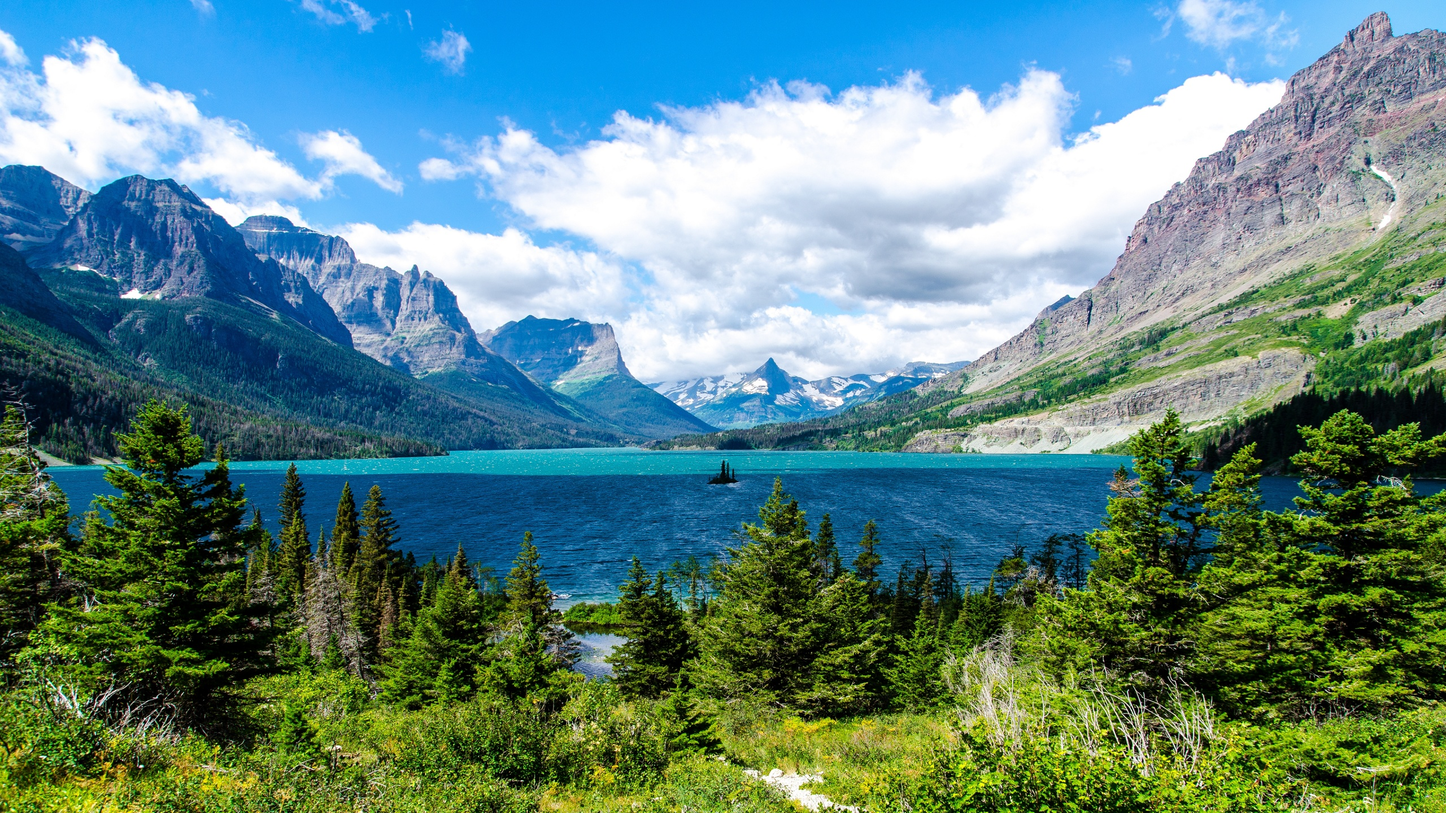
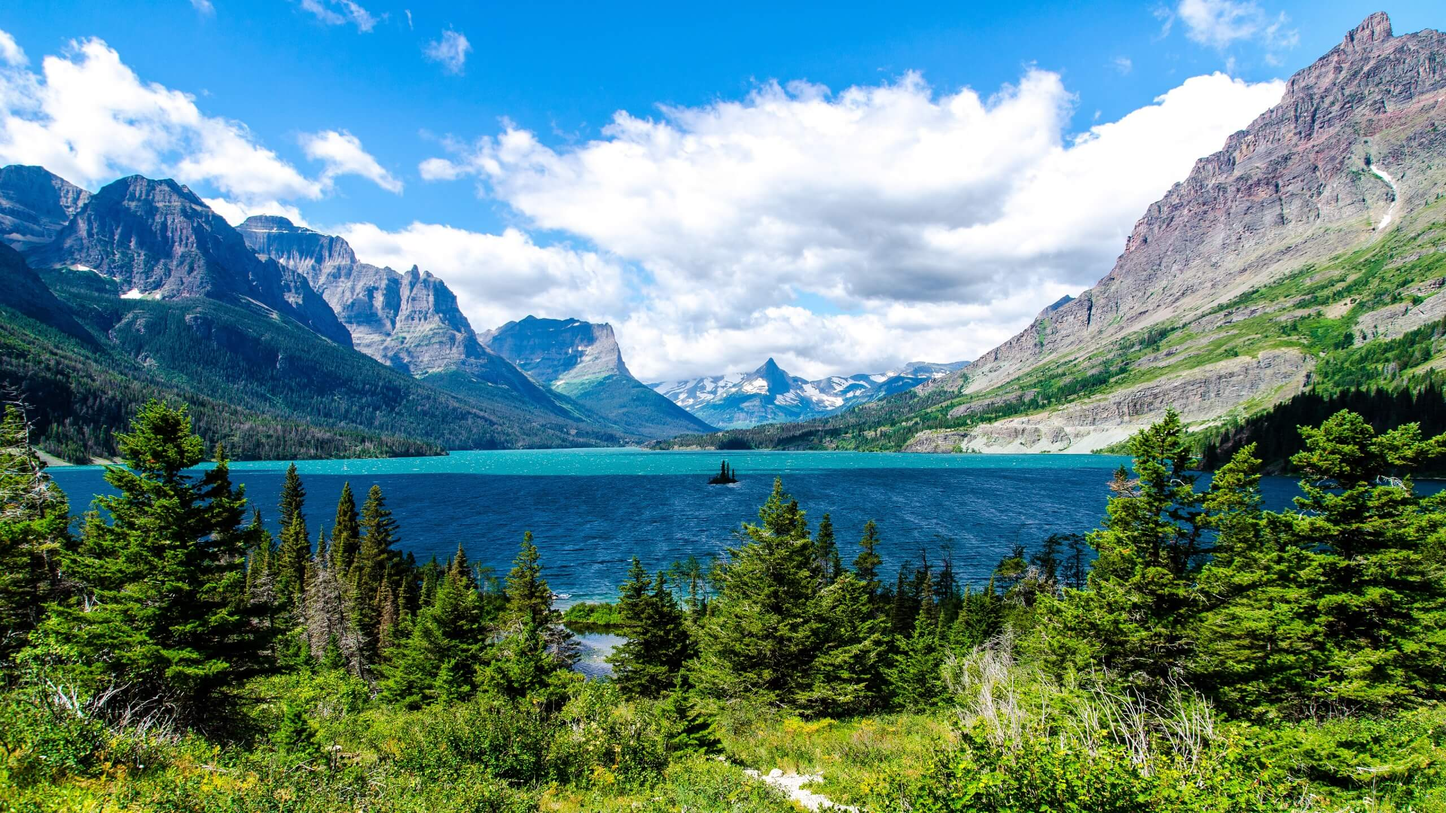
updated the background styles for hero cus its cool

diff --git a/src/app/components/Hero.vue b/src/app/components/Hero.vue
@@ -24,14 +24,14 @@ export default {
     subtitle: String,
     src: String,
     alt: String
+  },
+  computed: {
+    cssProps() {
+      return {'--background-image': (this.src)}
+    }
   }
 }
 </script>
-<style lang="scss">
-  hero {
-    display:block;
-  }
-</style>
 <style lang="scss" scoped>
   .hero {
     position:fixed;
@@ -46,11 +46,13 @@ export default {
     left:0;
     width:100%;
     height:100%;
-    backdrop-filter: sepia(90%) brightness(90%) contrast(110%);
     position: absolute;
     display: flex;
     align-items: center;
     justify-content: center;
+    background-image: linear-gradient(to right, $red, $gold), url('./../../../public/assets/images/glacier-np.png');
+    background-size:cover;
+    background-blend-mode: color;
   }
   .copybox {
     bottom:20%;

diff --git a/src/assets/styles/_colors.scss b/src/assets/styles/_colors.scss
@@ -2,7 +2,8 @@ $white: #ffffff;
 $black: #000000;
 $dark-gray: #383838;
 $light-gray: #cfcfcf;
-$gold:#ecc149;
+$gold:#ffc500;
+$red: #c21500;
 $navy: #171b3b;
 
 $greenGradient: #046B06;
